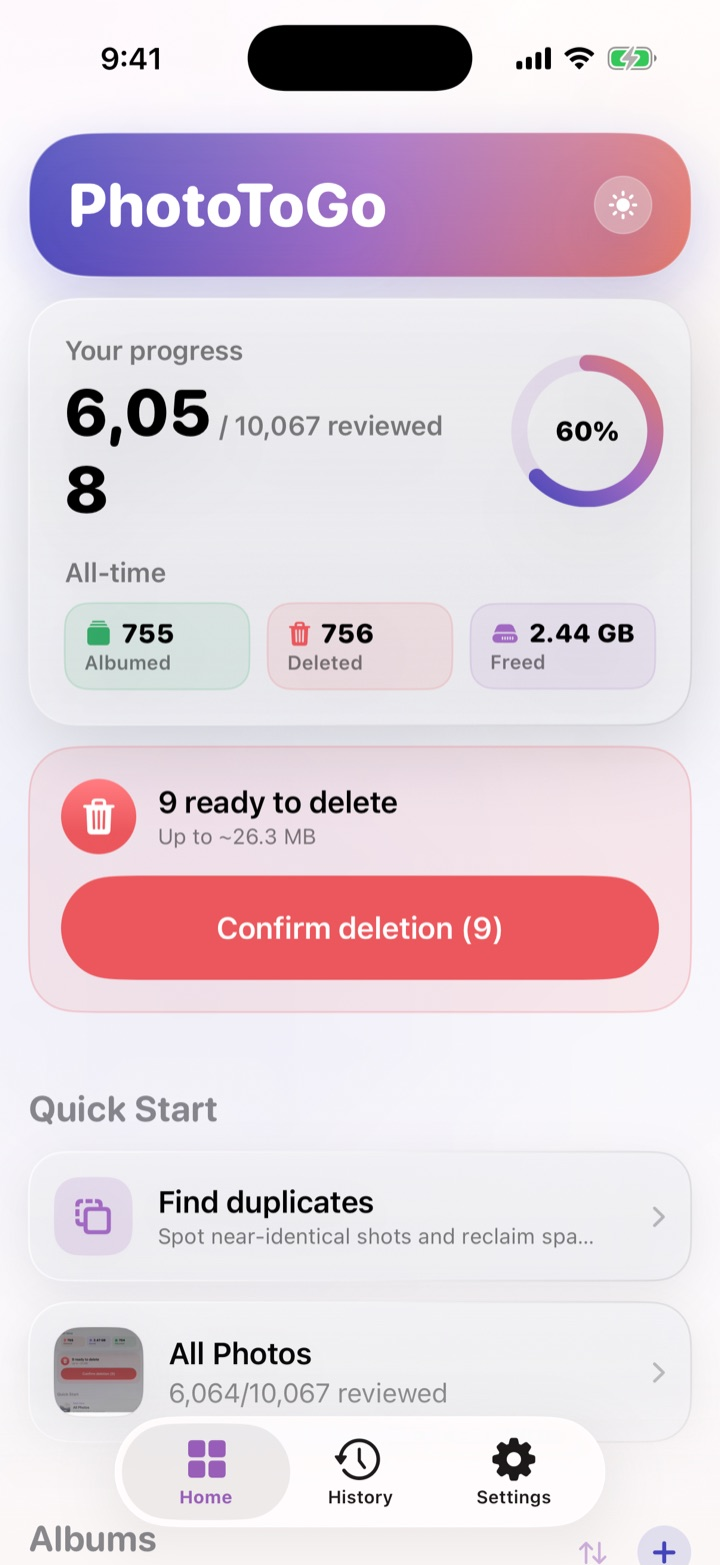
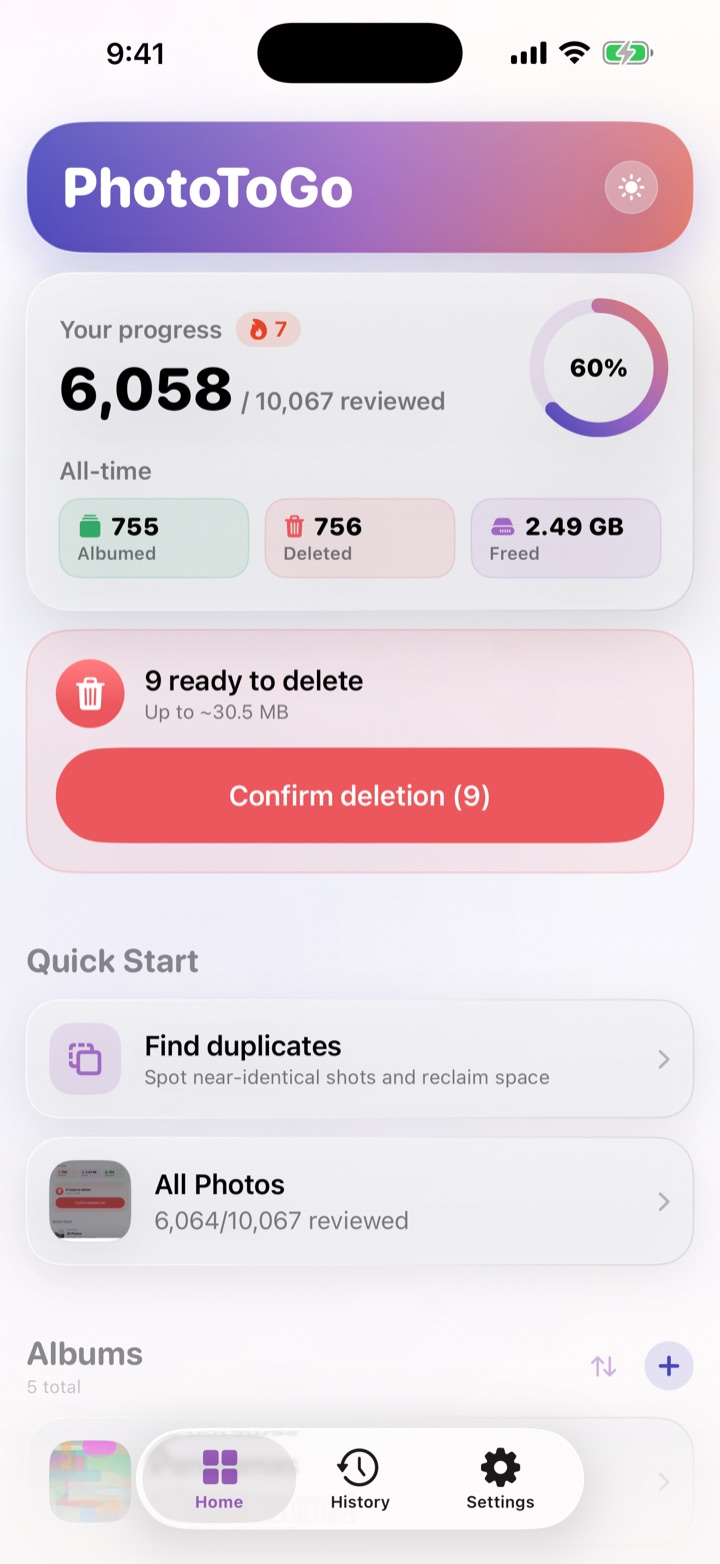
PhotoToGo landing: align with App Store, tighten copy
Match the App Store marketing set: swipe/Delete-stamp hero, and short
App-Store-style headlines (Save storage / Find duplicates / Sort into
albums) with the current in-app screenshots (light duplicates finder,
Home with streak, Save-to-album picker). Cut the verbose "everything it
does" feature list and trim the hero + CTA copy so the page reads as a
quick pitch, not a manual.

diff --git a/phototogo/index.html b/phototogo/index.html
@@ -132,9 +132,8 @@
               <p class="pillar-name pillar-name-pulse">PhotoToGo &middot; Swipe photo cleaner &amp; organizer</p>
               <h1>Tidy your photos. <span class="accent-pulse-ink">Relive the good ones.</span></h1>
               <p class="lead">
-                A calm, private way to clean up your camera roll. Swipe to sort the
-                keepers into albums, clear duplicates and clutter, and rediscover the
-                moments worth reliving &mdash; all on your iPhone.
+                Swipe to clean up your camera roll &mdash; sort keepers into albums,
+                clear duplicates, and free up space. All on your iPhone.
               </p>
               <div class="hero-actions">
                 <a class="button button-coral button-lg" href="https://apps.apple.com/app/id6776543079">
@@ -144,12 +143,12 @@
                 <a class="button button-quiet" href="#how" style="border-color: var(--line); color: var(--ink-text);">See how it works</a>
               </div>
               <p style="color: var(--ink-muted); font-size: var(--t-small); margin-top: 1.5rem;">
-                Free to start &middot; iPhone &middot; iOS 17+ &middot; No accounts, no ads
+                iPhone &middot; iOS 17+ &middot; No accounts, no ads
               </p>
             </div>
             <div class="device">
-              <img src="img/deck-web.jpg" width="720" height="1565"
-                   alt="PhotoToGo's swipe deck showing a coastal photo with Delete, Keep, Favorite, Bookmark and Album actions.">
+              <img src="img/swipe-web.jpg" width="720" height="1564"
+                   alt="PhotoToGo's swipe deck: a photo mid-swipe under a red Delete stamp, over Keep, Favorite, Bookmark and Album actions.">
             </div>
           </div>
         </div>
@@ -157,96 +156,45 @@
 
       <section id="how" class="section">
         <div class="wrap">
-          <div class="section-head">
-            <h2>Sorting your photos, made almost fun.</h2>
-            <p class="lead">
-              Thousands of photos, no time to sort them. PhotoToGo turns the chore
-              into a few minutes of swiping &mdash; and ends on a good memory, not a
-              storage warning.
-            </p>
-          </div>
-
           <div class="showcase">
             <div class="showcase-row">
               <div class="showcase-media">
                 <div class="device">
-                  <img src="img/home-web.jpg" width="720" height="1565" loading="lazy"
-                       alt="PhotoToGo home dashboard: review progress, space freed, and photos ready to delete.">
+                  <img src="img/home-web.jpg" width="720" height="1564" loading="lazy"
+                       alt="PhotoToGo home dashboard showing review progress and gigabytes freed.">
                 </div>
               </div>
               <div class="showcase-copy">
-                <h3>Watch your library come together</h3>
-                <p>
-                  Your progress, the gigabytes you&rsquo;ve freed, and what&rsquo;s
-                  left to review &mdash; all on one calm dashboard. Every swipe moves
-                  the needle.
-                </p>
-                <div class="pill-row">
-                  <span class="pill">Review progress</span>
-                  <span class="pill">Space freed</span>
-                  <span class="pill">Albums &amp; favorites</span>
-                </div>
+                <h3>Save storage, effortlessly.</h3>
+                <p>Watch the gigabytes come back as you sort &mdash; no more &ldquo;Storage Full.&rdquo;</p>
               </div>
             </div>
 
             <div class="showcase-row reverse">
               <div class="showcase-media">
                 <div class="device">
-                  <img src="img/duplicates-web.jpg" width="720" height="1565" loading="lazy"
-                       alt="PhotoToGo duplicate finder in dark mode, grouping near-identical mountain photos.">
+                  <img src="img/duplicates-web.jpg" width="720" height="1564" loading="lazy"
+                       alt="PhotoToGo duplicate finder grouping near-identical photos with the best one recommended.">
                 </div>
               </div>
               <div class="showcase-copy">
-                <h3>Find the duplicates hiding in plain sight</h3>
-                <p>
-                  PhotoToGo groups near-identical shots and bursts, keeps the best,
-                  and shows exactly how much space you&rsquo;ll reclaim. It looks just
-                  as good in the dark.
-                </p>
-                <div class="pill-row">
-                  <span class="pill">Near-duplicate detection</span>
-                  <span class="pill">Reclaim gigabytes</span>
-                  <span class="pill">Light &amp; dark</span>
-                </div>
+                <h3>Find duplicates, automatically.</h3>
+                <p>We group near-identical shots and bursts, then pick the best to keep. Looks great in light or dark.</p>
               </div>
             </div>
-          </div>
-        </div>
-      </section>
 
-      <section class="section section-work">
-        <div class="wrap">
-          <div class="section-head">
-            <h2>Everything it does, and nothing it doesn&rsquo;t.</h2>
-            <p class="lead">Powerful where it helps, quiet everywhere else.</p>
-          </div>
-
-          <div class="work-list">
-            <article class="work-row">
-              <h3>Clear the clutter</h3>
-              <p>
-                Find near-identical shots and bursts, clear the extras, and reclaim
-                the space. Deletions go to iOS Recently Deleted, recoverable for
-                30 days.
-              </p>
-            </article>
-
-            <article class="work-row">
-              <h3>Albums in a tap</h3>
-              <p>
-                Create and rename albums as you go. Every change lands in iOS
-                Photos right away &mdash; never a second place your photos have to
-                live.
-              </p>
-            </article>
-
-            <article class="work-row">
-              <h3>Private by design</h3>
-              <p>
-                No accounts, no ads, nothing uploaded. Your photos stay on your
-                iPhone, and PhotoToGo always asks before deleting anything.
-              </p>
-            </article>
+            <div class="showcase-row">
+              <div class="showcase-media">
+                <div class="device">
+                  <img src="img/albums-web.jpg" width="720" height="1564" loading="lazy"
+                       alt="PhotoToGo &ldquo;Save to album&rdquo; picker for filing a photo into an album.">
+                </div>
+              </div>
+              <div class="showcase-copy">
+                <h3>Sort into albums, in a tap.</h3>
+                <p>File keepers into any album right as you swipe &mdash; every change lands straight in iOS Photos.</p>
+              </div>
+            </div>
           </div>
         </div>
       </section>
@@ -256,8 +204,7 @@
           <div class="section-head" style="margin-bottom: clamp(1.75rem, 3vw, 2.5rem);">
             <h2>Ready to tidy up?</h2>
             <p class="lead">
-              Start free with 150 swipes a day. Raise or remove the limit anytime
-              &mdash; bookmarks are always free.
+              Free to start. Private by design &mdash; nothing leaves your iPhone.
             </p>
           </div>
           <div class="hero-actions">
